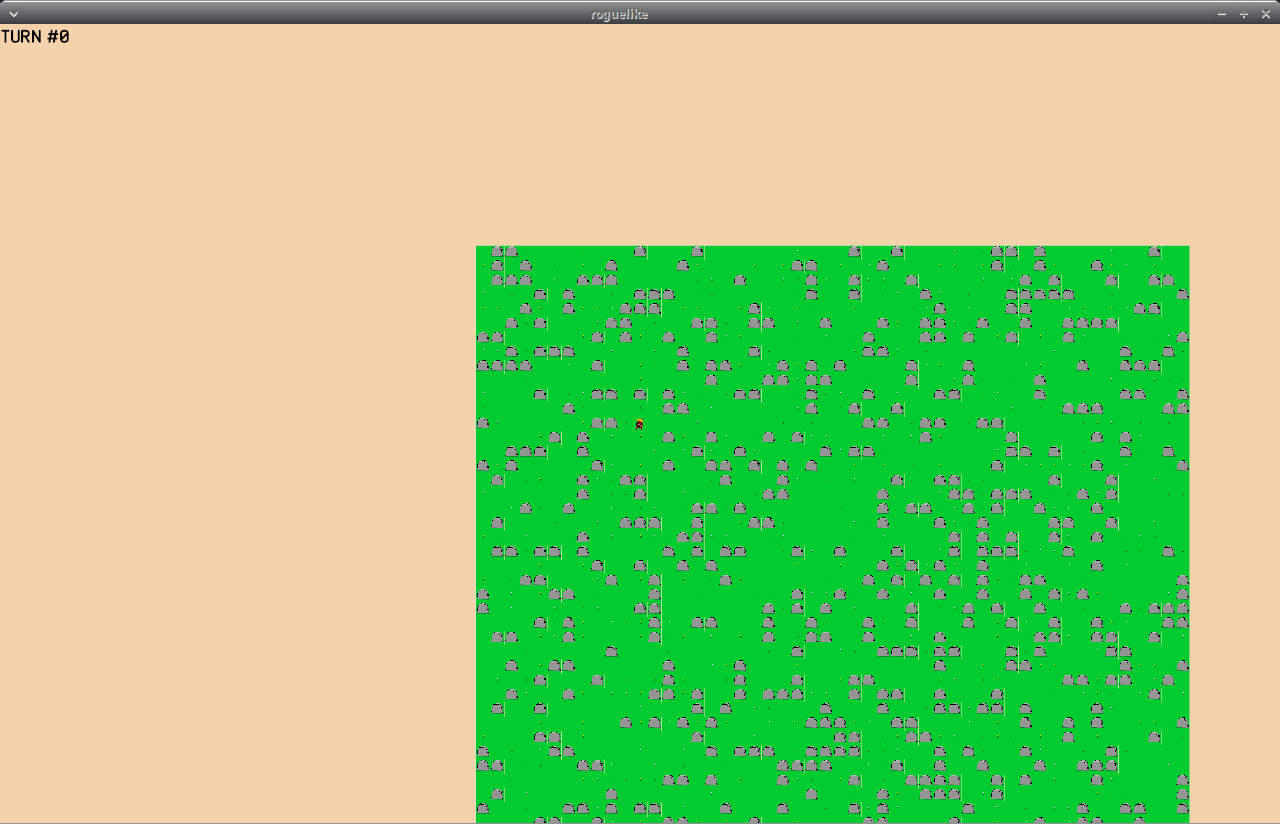
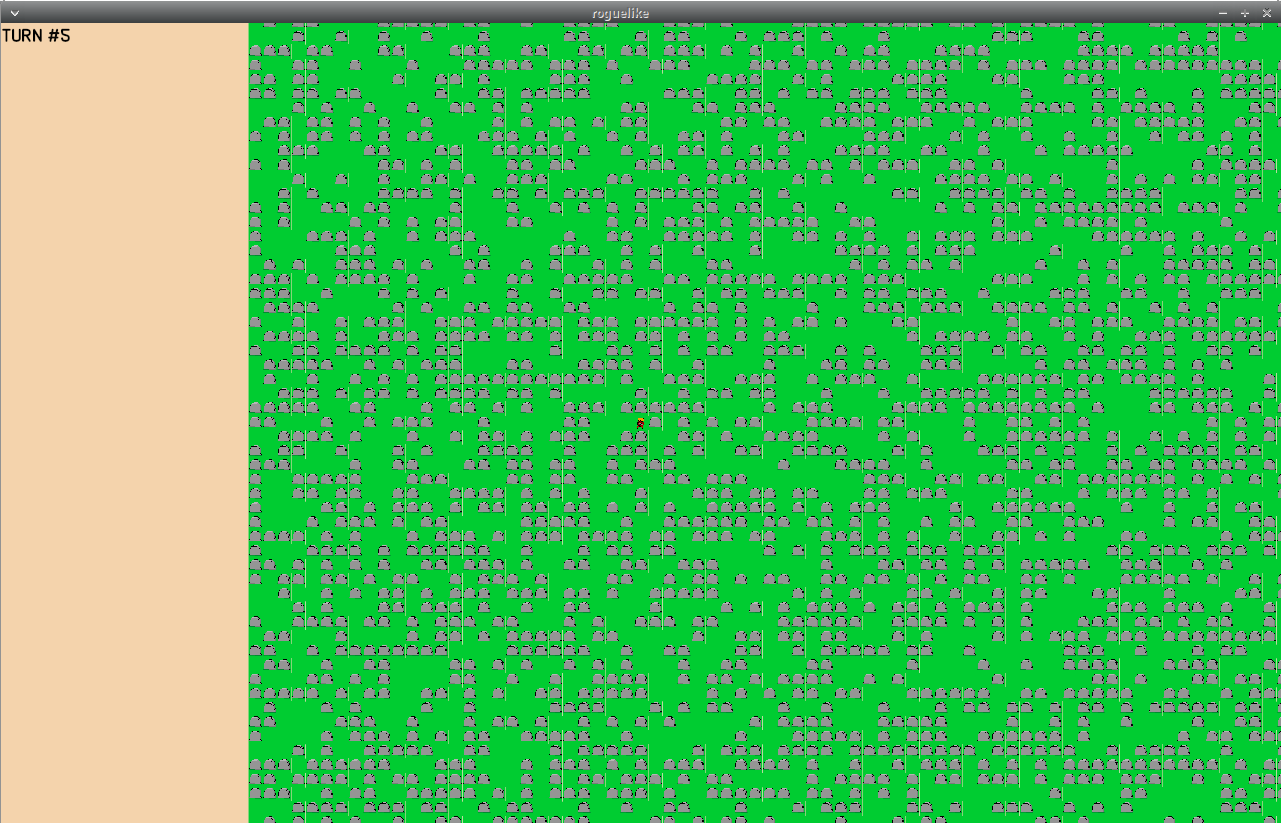
chore: update devlog #1

diff --git a/_posts/2024-01-02-devlog-0001.md b/_posts/2024-01-02-devlog-0001.md
@@ -11,7 +11,9 @@ understand the project and the idea behind. In this entry, I'll mainly share
 some map improvements I've been working on.
 
 1. [Bug Fixing: Player spawning on a non-walkable tile](#bug-fixing-player-spawning-on-a-non-walkable-tile)
-2. [Closing Thoughts](#closing-thoughts)
+2. [Bug Fixing: Pixel artifacts between the tiles](#bug-fixing-pixel-artifacts-between-tiles)
+3. [Mechanics/Systems: Creating the map with cellular automaton](#mechanicssystem-creating-the-map-with-a-cellular-automaton)
+4. [Closing Thoughts](#closing-thoughts)
 
 ## Bug Fixing: Player spawning on a non-walkable tile
 
@@ -116,21 +118,39 @@ fn initialize_player(
 ![roguelike-7](/assets/img/blog/devlog/roguelike-0007.png)
 *Player spawning on a random walkable tile*
 
-## Mechanics/System: Creating the map with a Cellular automaton
+## Bug Fixing: Pixel artifacts between tiles
 
-When the map is created, the stones and other tiles are put randomly.
-
-{: style="text-align:center"}
-![roguelike-8](/assets/img/blog/devlog/roguelike-0009.png)
-*Each tile having a 0.5 probability to be a stone or a grass*
- 
-{: style="text-align:center"}
-![roguelike-9](/assets/img/blog/devlog/roguelike-0010.png)
-*Example #1: Using Game of Life rules with 50 steps*
+There's an issue I had and that have been bothering me recently. It's related
+to the way tiles are displayed on screen. If you pay close attention to the
+following image, you'll notice vertical pixel artifacts between the tiles.
 
 {: style="text-align:center"}
-![roguelike-8](/assets/img/blog/devlog/roguelike-0011.png)
-*Example #2: Using Game of Life rules with 50 steps*
+![roguelike-8](/assets/img/blog/devlog/roguelike-0008.png)
+*Pixel artifacts between the tiles*
+
+**Solution**: It seems to be [a known issue](https://github.com/bevyengine/bevy/issues/3593) related to Bevy's [MSAA](https://docs.rs/bevy/latest/bevy/prelude/enum.Msaa.html).
+After turning it off with `insert_resource(Msaa::Off)`, the pixel artifacts were gone. &#128513;
+
+{: style="text-align:center"}
+![roguelike-9](/assets/img/blog/devlog/roguelike-0009.png)
+*No pixel artifacts anymore*
+
+
+## Mechanics/System: Creating the map procedurally
+
+With these issues gone, I could focus on more interesting stuff: generating the
+map procedurally. Naively, one could think that putting rocks randomly on the
+map is enough, but we need to take into account a couple of criteria:
+
+1. Harmony: Using a total random placement feels heavily artificial.
+It's more enjoyable to walk in a terrain that looks natural.
+2. Walkable path: In its simplest form, the path from the beginning to the end
+of a level must be walkable. It means that a player should never spawn trapped
+between rocks. 
+
+### Using a Cellular Automaton
+
+### Using Perlin Noise
 
 ## Closing Thoughts
 
